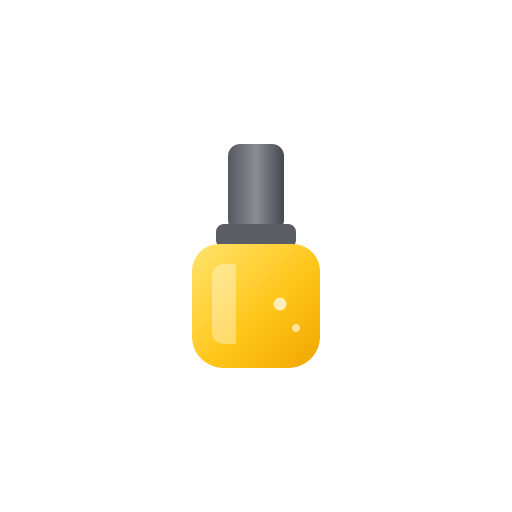
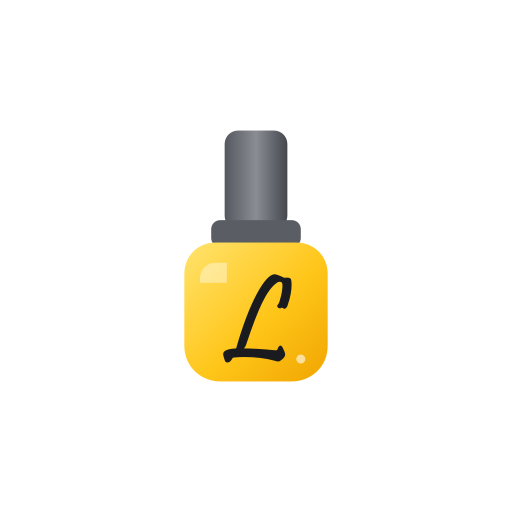
Иконка: рукописная «L» на флаконе лака

Changed region(s): [[0.3438, 0.25, 0.6562, 0.75], [0.5625, 0.625, 0.5938, 0.6562]]

diff --git a/scripts/make-icons.js b/scripts/make-icons.js
@@ -1,0 +1,68 @@
+// Генерация иконок Lenchi Studio: жёлтый флакон лака с рукописной «L» (шрифт Pristina из Windows).
+// Запуск из корня проекта: npx -p sharp node scripts/make-icons.js .
+const sharp = require('sharp');
+const path = require('path');
+const fs = require('fs');
+
+const app = process.argv[2];
+const assets = path.join(app, 'assets');
+const pub = path.join(app, 'public');
+fs.mkdirSync(pub, { recursive: true });
+
+// Флакон в координатах 0..64 (как на визитке)
+const bottle = (fill = 'url(#polish)', cap = 'url(#cap)', neck = '#5a5d63', shine = true) => `
+  <rect x="25" y="4" width="14" height="22" rx="3" fill="${cap}"/>
+  <rect x="22" y="24" width="20" height="6" rx="2" fill="${neck}"/>
+  <path d="M16 36c0-4 3-7 7-7h18c4 0 7 3 7 7v16c0 5-4 8-8 8H24c-4 0-8-3-8-8V36z" fill="${fill}"/>
+  ${shine ? `<path d="M19.5 37c0-2 1.5-3.5 3.5-3.5h2.5v4.5h-6z" fill="#fff" opacity="0.4"/>
+  <circle cx="42" cy="55" r="1" fill="#fff" opacity="0.6"/>
+  <text x="32" y="54.5" text-anchor="middle" font-family="Pristina" font-size="27"
+    fill="#1a1b1e" stroke="#1a1b1e" stroke-width="0.35" stroke-linejoin="round">L</text>` : ''}`;
+
+const defs = `
+  <defs>
+    <linearGradient id="polish" x1="0" y1="0" x2="1" y2="1">
+      <stop offset="0" stop-color="#ffe36e"/><stop offset="0.55" stop-color="#ffc61a"/><stop offset="1" stop-color="#f0a500"/>
+    </linearGradient>
+    <linearGradient id="cap" x1="0" y1="0" x2="1" y2="0">
+      <stop offset="0" stop-color="#55585f"/><stop offset="0.5" stop-color="#8a8d94"/><stop offset="1" stop-color="#45474d"/>
+    </linearGradient>
+    <radialGradient id="glow" cx="0.5" cy="0.62" r="0.5">
+      <stop offset="0" stop-color="#ffc61a" stop-opacity="0.35"/><stop offset="1" stop-color="#ffc61a" stop-opacity="0"/>
+    </radialGradient>
+    <linearGradient id="bg" x1="0" y1="0" x2="0" y2="1">
+      <stop offset="0" stop-color="#2a2c30"/><stop offset="1" stop-color="#1a1b1e"/>
+    </linearGradient>
+  </defs>`;
+
+// scale — доля холста под флакон; withBg — тёмный фон со свечением
+function svg(size, { scale = 0.7, withBg = true, round = 0, mono = false } = {}) {
+  const s = (size * scale) / 64;
+  const off = (size - 64 * s) / 2;
+  return `<svg xmlns="http://www.w3.org/2000/svg" width="${size}" height="${size}" viewBox="0 0 ${size} ${size}">
+    ${defs}
+    ${withBg ? `<rect width="${size}" height="${size}" rx="${round}" fill="url(#bg)"/>
+    <rect width="${size}" height="${size}" rx="${round}" fill="url(#glow)"/>` : ''}
+    <g transform="translate(${off} ${off}) scale(${s})">
+      ${mono ? bottle('#fff', '#fff', '#fff', false) : bottle()}
+    </g>
+  </svg>`;
+}
+
+const out = (file, data) => sharp(Buffer.from(data)).png().toFile(file);
+
+(async () => {
+  await out(path.join(assets, 'icon.png'), svg(1024));
+  await out(path.join(assets, 'splash-icon.png'), svg(1024, { withBg: false, scale: 0.7 }));
+  // адаптивная иконка Android: содержимое в безопасной зоне ~60%
+  await out(path.join(assets, 'android-icon-foreground.png'), svg(512, { withBg: false, scale: 0.56 }));
+  await out(path.join(assets, 'android-icon-background.png'),
+    `<svg xmlns="http://www.w3.org/2000/svg" width="512" height="512">${defs}<rect width="512" height="512" fill="url(#bg)"/><rect width="512" height="512" fill="url(#glow)"/></svg>`);
+  await out(path.join(assets, 'android-icon-monochrome.png'), svg(432, { withBg: false, scale: 0.5, mono: true }));
+  await out(path.join(assets, 'favicon.png'), svg(48, { scale: 0.8, round: 10 }));
+  // веб / iPhone
+  await out(path.join(pub, 'apple-touch-icon.png'), svg(180));
+  await out(path.join(pub, 'logo192.png'), svg(192));
+  await out(path.join(pub, 'logo512.png'), svg(512));
+  console.log('icons done');
+})();
